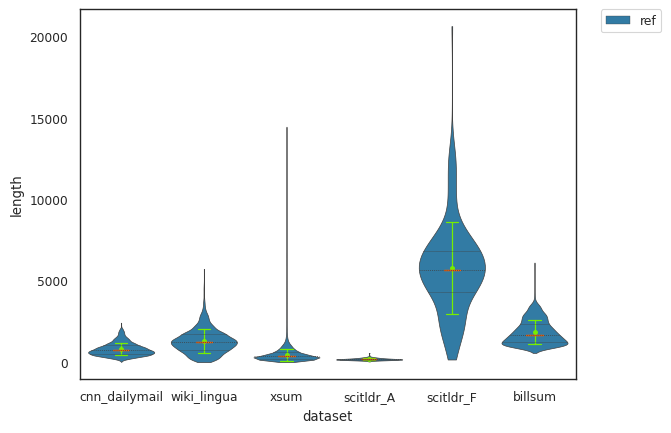
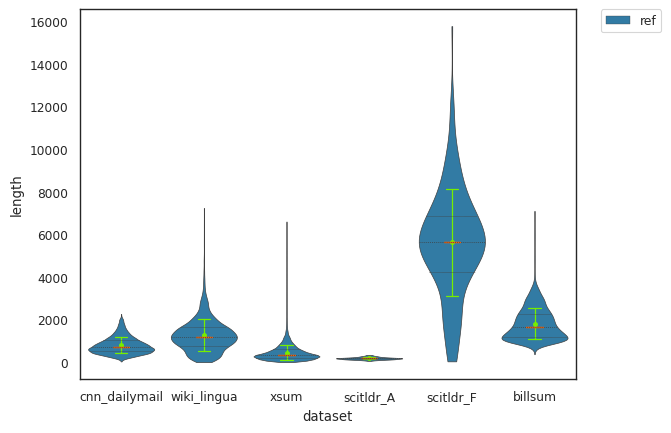
update plots

diff --git a/generate_plot.py b/generate_plot.py
@@ -1,10 +1,10 @@
 from typing import List
 import pandas as pd
 import seaborn as sns
-from matplotlib import pyplot as plt
-from numpy import median
 import numpy as np
-from LoadData import get_args
+from numpy import median
+from matplotlib import pyplot as plt
+from LoadData import get_args, read_js
 from inspection import get_lens
 from similarity import get_simi
 
@@ -242,7 +242,7 @@ def plot_pos(pos: List, name: str, savefig=True):
         binrange=(0, 1),
         color="green",
         line_kws=dict(lw=1.5),
-        bins=50
+        bins=50,
     )
     plt.title(name)
     if savefig:
@@ -265,42 +265,39 @@ def compute_show_ratio(sts: List, name: str, savefig=True):
 if __name__ == "__main__":
     args = get_args()
 
-    datasets = [
-        "cnn_dailymail",
-        "wiki_lingua",
-        "xsum",
-        "scitldr_A",
-        "scitldr_F",
-        "billsum",
-    ]
+    datasets = read_js("ds_name_list.json")
     cls_sts = []
 
-    if args.sts[0] == "len":
+    if args.stats[0] == "length":
         cls_names = ["ref", "sum"]
 
         for dataset in datasets:
-            sts = get_lens(dataset, args.ds[1], args.tm[0], args.p)
+            sts = get_lens(
+                dataset, args.split[0], args.token_method[0], args.sample_propor
+            )
             cls_sts.append(sts.src.lens)
             cls_sts.append(sts.tg.lens)
 
             # Histogram of compression ratio with vertical lines (mean - red, max - green, median - black, std - dashed gray)
-            compute_show_ratio([sts.src.lens, sts.tg.lens], args.tm[0] + "_len_" + dataset)
+            compute_show_ratio(
+                [sts.src.lens, sts.tg.lens], args.token_method[0] + "_len_" + dataset
+            )
 
         df = make_dfs(cls_sts, cls_names, datasets, "length")
 
         # draw all datasets in one of (w/o logscale) stripplot marked with mean and std (black), median (orange).
-        draw_strip(df, args.tm[0] + "_len", logscale=False, showm=False)
-        draw_strip(df, args.tm[0] + "_len")
+        draw_strip(df, args.token_method[0] + "_len", logscale=False, showm=False)
+        draw_strip(df, args.token_method[0] + "_len")
 
         # draw violin plot of reference/summary marked with mean and std (green), median (orange).
-        draw_violin(df[df["class"] == "ref"], args.tm[0] + "_len_ref")
-        draw_violin(df[df["class"] == "sum"], args.tm[0] + "_len_sum")
+        draw_violin(df[df["class"] == "ref"], args.token_method[0] + "_len_ref")
+        draw_violin(df[df["class"] == "sum"], args.token_method[0] + "_len_sum")
 
-    if args.sts[0] == "simi":
+    if args.stats[0] == "similarity":
         cls_names = ["mean", "max", "min"]
 
         for dataset in datasets:
-            sts = get_simi(dataset, args.ds[1], args.p)
+            sts = get_simi(dataset, args.split[0], args.sample_propor)
             cls_sts.append(sts.mean)
             cls_sts.append(sts.max)
             cls_sts.append(sts.min)
